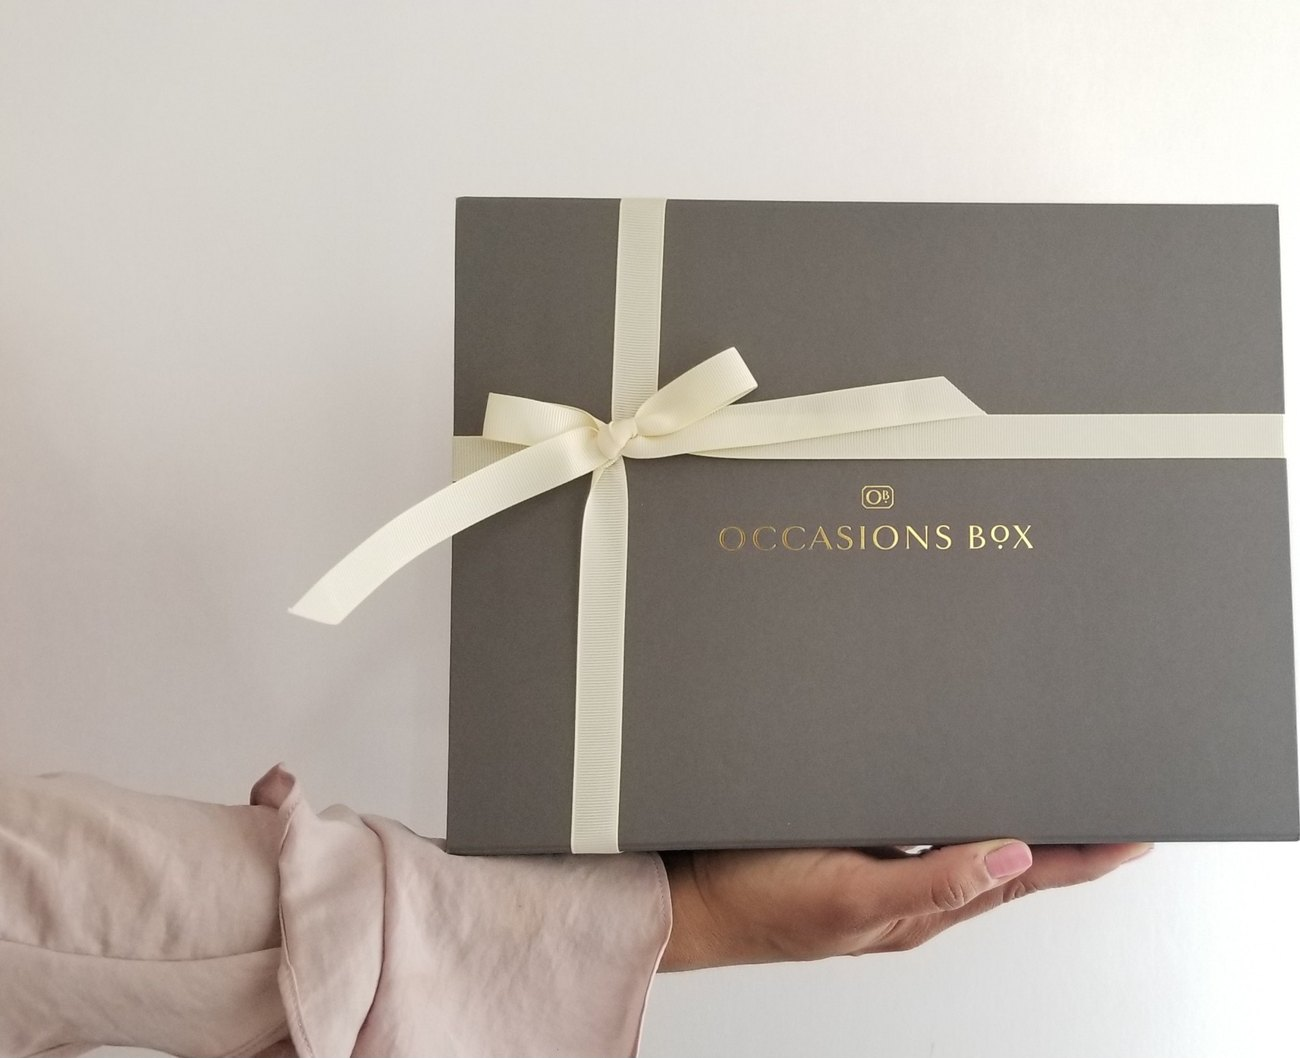
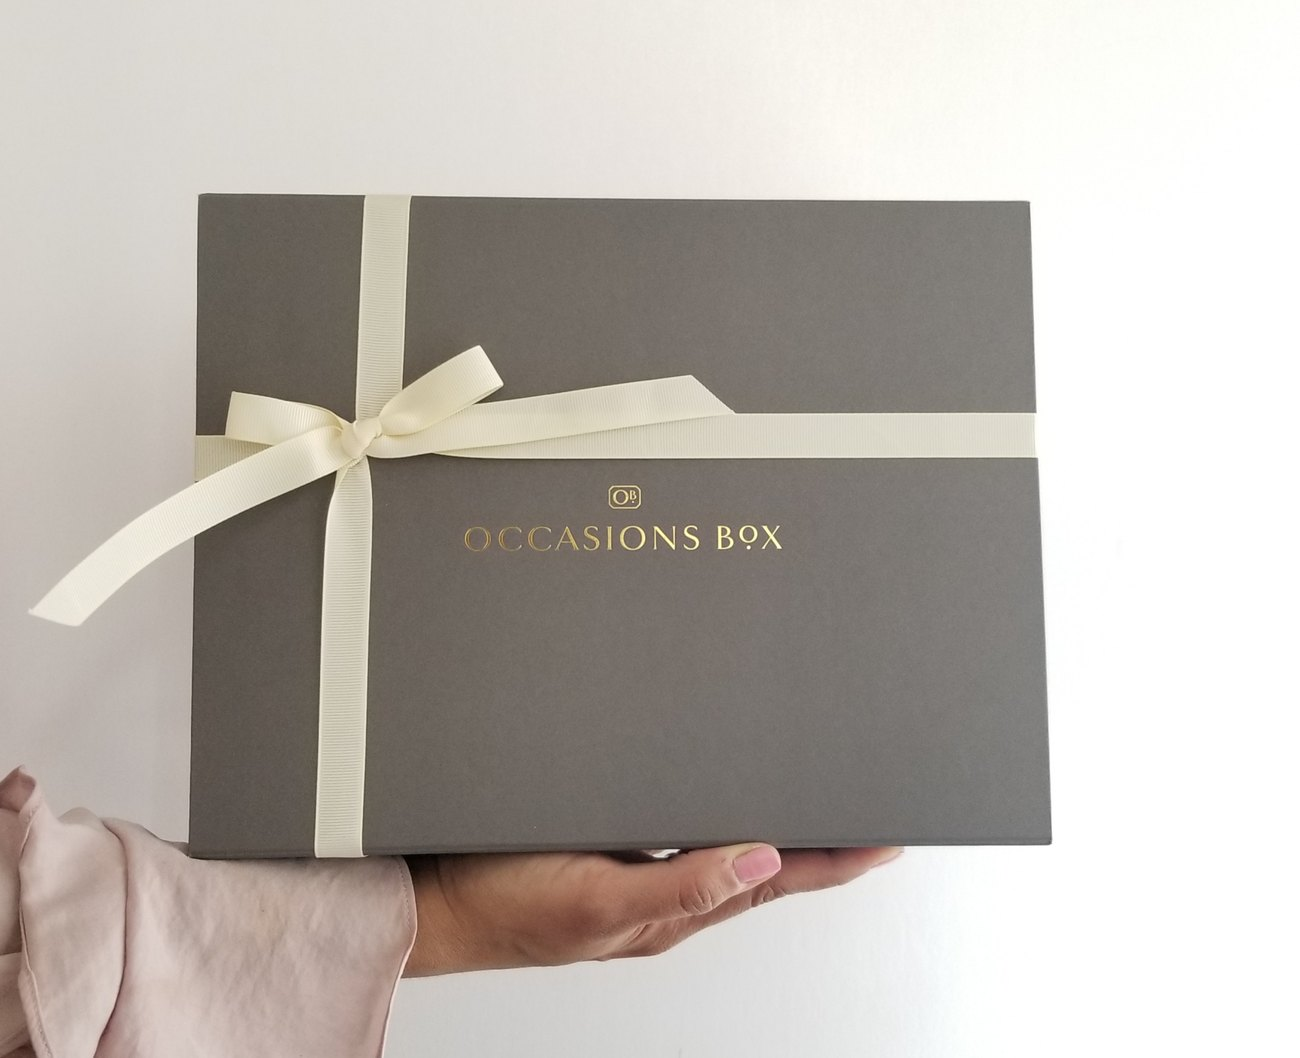
Rebalance the /about crop
The white-matte trim keyed on pure white and stopped at x=1901, which is
exactly where the box's right edge sits, so the box came out flush against the
frame while dead backdrop sat on the left.

There is real, very faint sweep out to x=2260 that the pure-white threshold
read as matte. Keeping it gives the box room on the right, and the dead space
on the left comes off instead: the window is now x 380-2260 of the rotated
original, centred on the vertical content band so it still cannot reach into
the matte.

Re-derived from the untrimmed original rather than from the over-trimmed
master, so nothing compounds. The page image keeps its 1300x1058 shape, so the
CSS is unchanged; the share card is rebuilt from the same frame.

Also unlinked two of the eleven box photographs, on Sarah's call: the band on
the home page and the figure on /contact both illustrate custom work rather
than offer that box, so clicking through to a ready-made product read oddly.
Nine links remain.

Claude-Session: https://claude.ai/code/session_01TxBmwVpNciJocDRpmjnHxx

diff --git a/site/contact.html b/site/contact.html
@@ -225,8 +225,8 @@
     </div>
   </div>
   <figure class="hws-figure fade-up">
-    <a class="box-link" href="/shop/welcome-home" aria-label="See the Welcome Home gift box"><img src="/assets/img/0B0_5183-750w.jpg" width="750" height="580" loading="lazy"
-         alt="A charcoal Occasions Box with an olive wood board, a gold spoon, a printed cotton towel, Earl Grey tea and a soy candle"></a>
+    <img src="/assets/img/0B0_5183-750w.jpg" width="750" height="580" loading="lazy"
+         alt="A charcoal Occasions Box with an olive wood board, a gold spoon, a printed cotton towel, Earl Grey tea and a soy candle">
   </figure>
   <p class="hws-note fade-up">Once you approve, custom and corporate orders run a 2&ndash;4 week lead time, or 3&ndash;4 weeks from mid October through December, plus 1&ndash;7 business days in transit. Working to a dated event? Tell us the date first and we will tell you honestly whether we can meet it.</p>
   </div>

diff --git a/tools/sections/contact.html b/tools/sections/contact.html
@@ -23,8 +23,8 @@
     </div>
   </div>
   <figure class="hws-figure fade-up">
-    <a class="box-link" href="/shop/welcome-home" aria-label="See the Welcome Home gift box"><img src="/assets/img/0B0_5183-750w.jpg" width="750" height="580" loading="lazy"
-         alt="A charcoal Occasions Box with an olive wood board, a gold spoon, a printed cotton towel, Earl Grey tea and a soy candle"></a>
+    <img src="/assets/img/0B0_5183-750w.jpg" width="750" height="580" loading="lazy"
+         alt="A charcoal Occasions Box with an olive wood board, a gold spoon, a printed cotton towel, Earl Grey tea and a soy candle">
   </figure>
   <p class="hws-note fade-up">Once you approve, custom and corporate orders run a 2&ndash;4 week lead time, or 3&ndash;4 weeks from mid October through December, plus 1&ndash;7 business days in transit. Working to a dated event? Tell us the date first and we will tell you honestly whether we can meet it.</p>
   </div>

diff --git a/site/index.html b/site/index.html
@@ -206,8 +206,8 @@
 
   <div class="cb-stage fade-up">
     <div class="cb-figure">
-      <a class="box-link" href="/shop/uncorked" aria-label="See the Uncorked gift box"><img src="/assets/img/0B0_2489-crop-750w.jpg" width="616" height="600" loading="lazy"
-           alt="A wooden Occasions Box crate packed with a gold candle, a gold corkscrew, craft chocolate and slate coasters, on charcoal linen"></a>
+      <img src="/assets/img/0B0_2489-crop-750w.jpg" width="616" height="600" loading="lazy"
+           alt="A wooden Occasions Box crate packed with a gold candle, a gold corkscrew, craft chocolate and slate coasters, on charcoal linen">
     </div>
     <div class="cb-intro">
       <h3>Three ways in, one standard</h3>

diff --git a/tools/sections/custom-band.html b/tools/sections/custom-band.html
@@ -8,8 +8,8 @@
 
   <div class="cb-stage fade-up">
     <div class="cb-figure">
-      <a class="box-link" href="/shop/uncorked" aria-label="See the Uncorked gift box"><img src="/assets/img/0B0_2489-crop-750w.jpg" width="616" height="600" loading="lazy"
-           alt="A wooden Occasions Box crate packed with a gold candle, a gold corkscrew, craft chocolate and slate coasters, on charcoal linen"></a>
+      <img src="/assets/img/0B0_2489-crop-750w.jpg" width="616" height="600" loading="lazy"
+           alt="A wooden Occasions Box crate packed with a gold candle, a gold corkscrew, craft chocolate and slate coasters, on charcoal linen">
     </div>
     <div class="cb-intro">
       <h3>Three ways in, one standard</h3>
